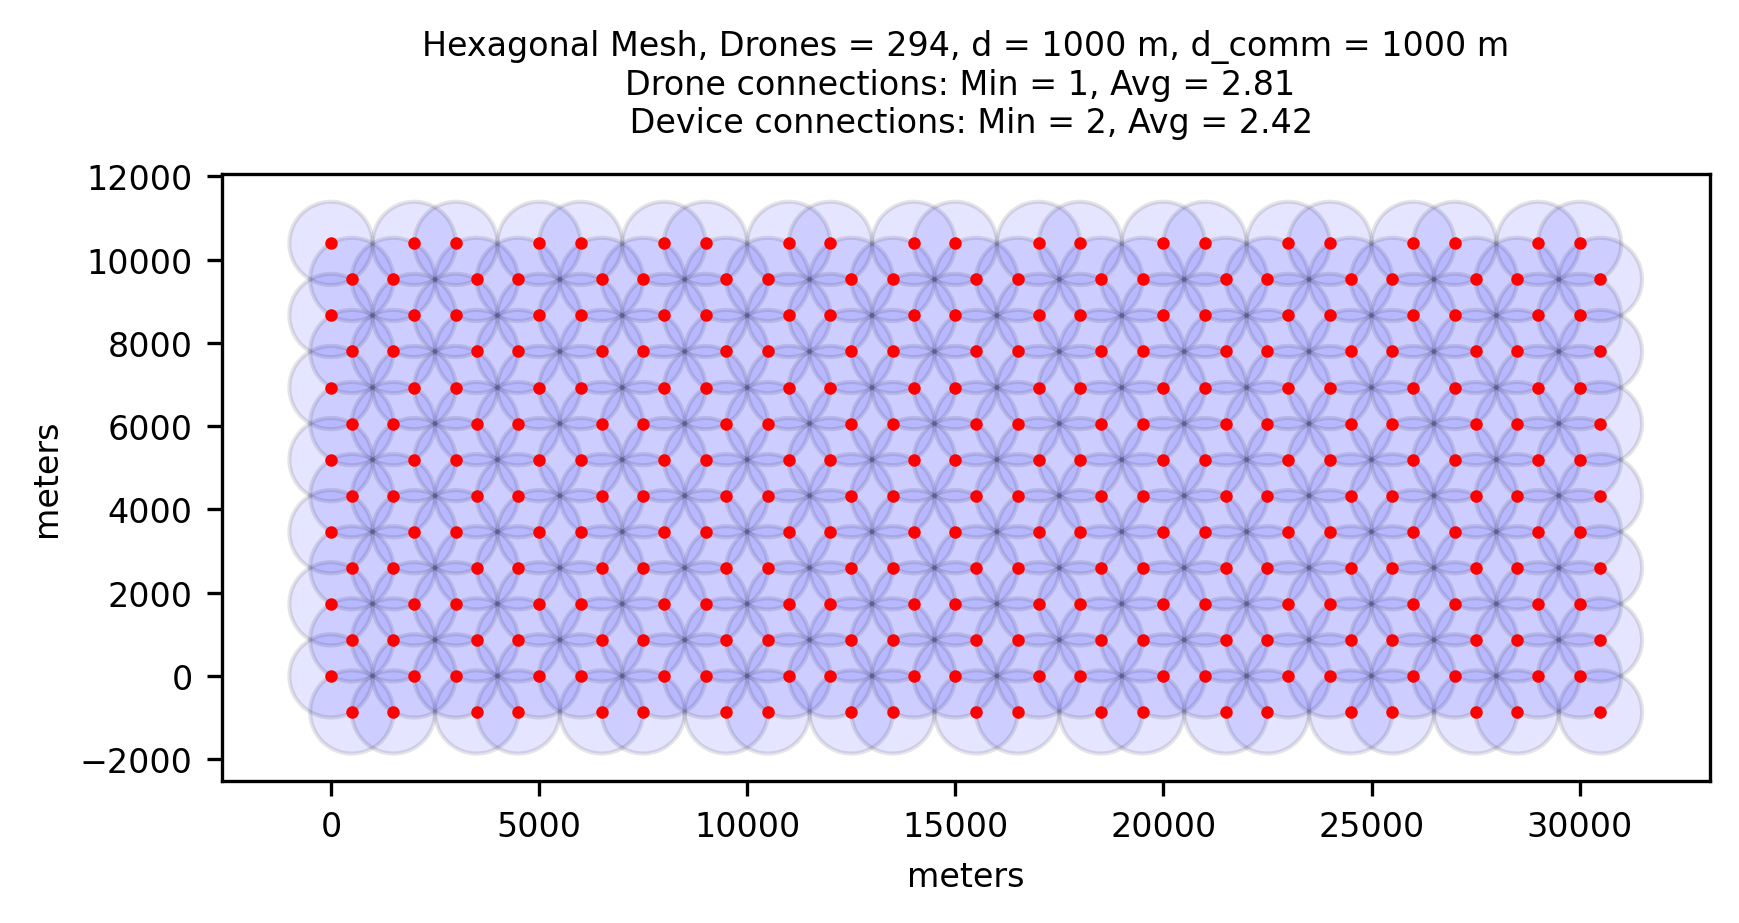
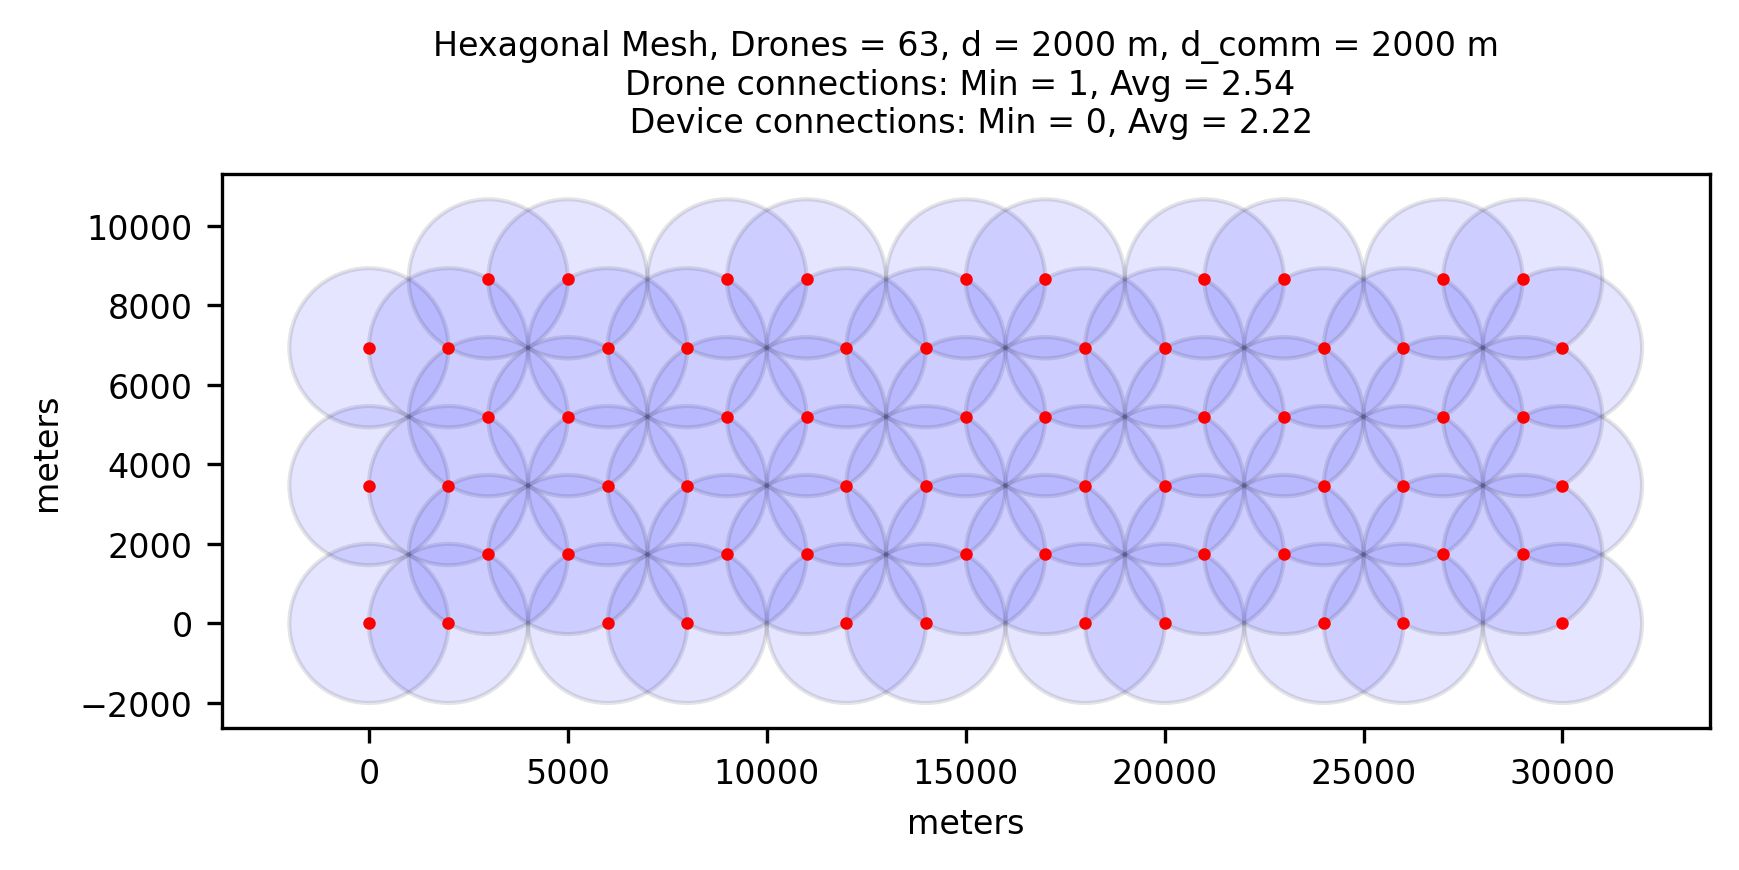
made tolarance function for communication range

diff --git a/mesh_design.py b/mesh_design.py
@@ -4,91 +4,6 @@ import math
 import os
 from tqdm import tqdm
 
-def plot_drone_positions(grid_name: str,
-                         drone_positions: np.ndarray, 
-                         distance: float,
-                         range: float,
-                         dim: tuple[float, float],
-                         sample_resolution: tuple[int, int],
-                         file_path_folder: str):
-    x_dim, y_dim = dim
-    x_sample_res, y_sample_res = sample_resolution
-    font_size = 8
-
-    fig, ax = plt.subplots()
-
-    # Stating number of drones in mesh
-    num_drones = len(drone_positions) 
-
-    # Plot drone positions as dots
-    x_pos = drone_positions[:, 0]
-    y_pos = drone_positions[:, 1]
-    ax.plot(x_pos, y_pos, 'o', color = 'red', markersize=2)
-
-    counts_inside = []
-
-    for i, (x, y) in enumerate(drone_positions):
-        # Compute distances from drone i to all drones
-        distances = (drone_positions[:, 0] - x)**2 + (drone_positions[:, 1] - y)**2
-        
-        # Count how many are within range (exclude itself)
-        count = np.sum(distances <= (range+1)**2) - 1
-        counts_inside.append(count)
-
-        # Draw communcation range as circle
-        circle = plt.Circle((x, y), range, fill=True, facecolor='blue', edgecolor='black', alpha=0.1)
-        ax.add_patch(circle)
-
-    counts_inside = np.array(counts_inside)
-
-    min_drones_inside = np.min(counts_inside)
-    #max_drones_inside = np.max(counts_inside) #commented out since its not used in plot fig
-    avg_drones_inside = np.mean(counts_inside)
-
-    # Device points in drone area
-    x_device_points = np.linspace(0, x_dim, x_sample_res)
-    y_device_points = np.linspace(0, y_dim, y_sample_res)
-
-    valid_connection_counts = []
-
-    for x_new in tqdm(x_device_points, desc=f"Computing distances for {grid_name} mesh"):
-        for y_new in y_device_points:
-            # Compute distances from device i to all drones
-            distances = (drone_positions[:, 0] - x_new)**2 + (drone_positions[:, 1] - y_new)**2
-
-            # Add connections to valid connection count
-            connections = np.sum(distances <= range**2)
-
-            valid_connection_counts.append(connections)
-
-    valid_connection_counts = np.array(valid_connection_counts)
-
-    min_device_connections = np.min(valid_connection_counts)
-    max_device_connections = np.max(valid_connection_counts)
-    avg_device_connections = np.mean(valid_connection_counts)
-
-    title_text = (
-    f"{grid_name} Mesh, Drones = {num_drones}, d = {distance} m, d_comm = {range} m\n"
-    f"Drone connections: Min = {min_drones_inside}, Avg = {avg_drones_inside:.2f} \n "
-    f"Device connections: Min = {min_device_connections}, Avg = {avg_device_connections:.2f}"
-)
-
-    ax.set_title(title_text, fontsize=font_size, pad=10)  # pad adds space above plot
-    
-    ax.set_xlabel("meters", fontsize=font_size)
-    ax.set_ylabel("meters", fontsize=font_size)
-
-    ax.set_aspect('equal', 'box')
-    ax.tick_params(axis='both', labelsize=font_size)
-
-    # save fig to file path
-    os.makedirs(file_path_folder, exist_ok=True)
-    file_path = os.path.join(file_path_folder, f"{grid_name}.png")
-    fig.savefig(file_path, dpi=300, bbox_inches='tight')
-    plt.close(fig)
-
-    
-
 def make_grid_product(x_range, y_range):
     return np.stack(np.meshgrid(x_range, y_range), axis = -1).reshape(-1,2)
 
@@ -325,30 +240,150 @@ def drone_hex_grid(dim: tuple[float, float],
     total_grid = np.vstack(full_grid_positions + part_grid_positions)
     return total_grid
 
+def distance_calc(dist_comm: float, 
+                  tolerances_input: tuple[float, float, float], 
+                  dist_redundancy: float) -> np.ndarray:
+    distance = []
+
+    tol_min, tol_max, tol_step = tolerances_input
+
+    # Convert percentage to meter
+    tol_min = tol_min*dist_comm
+    tol_max = tol_max*dist_comm
+
+    tolerances = np.linspace(tol_min, tol_max, tol_step)
+    
+
+    distance = dist_comm - tolerances - dist_redundancy
+
+    return distance
+
+def plot_drone_positions(grid_name: str,
+                         drone_positions: np.ndarray, 
+                         distance: float,
+                         dist_comm: float,
+                         dim: tuple[float, float],
+                         sample_resolution: tuple[int, int],
+                         file_path_folder: str):
+    x_dim, y_dim = dim
+    x_sample_res, y_sample_res = sample_resolution
+    font_size = 8
+
+    fig, ax = plt.subplots()
+
+    # Stating number of drones in mesh
+    num_drones = len(drone_positions) 
+
+    # Plot drone positions as dots
+    x_pos = drone_positions[:, 0]
+    y_pos = drone_positions[:, 1]
+    ax.plot(x_pos, y_pos, 'o', color = 'red', markersize=2)
+
+    counts_inside = []
+
+    for i, (x, y) in enumerate(drone_positions):
+        # Compute distances from drone i to all drones
+        distances = (drone_positions[:, 0] - x)**2 + (drone_positions[:, 1] - y)**2
+        
+        # Count how many are within dist_comm (exclude itself)
+        count = np.sum(distances <= (dist_comm+1)**2) - 1
+        counts_inside.append(count)
+
+        # Draw communcation dist_comm as circle
+        circle = plt.Circle((x, y), dist_comm, fill=True, facecolor='blue', edgecolor='black', alpha=0.1)
+        ax.add_patch(circle)
+
+    counts_inside = np.array(counts_inside)
+
+    min_drones_inside = np.min(counts_inside)
+    #max_drones_inside = np.max(counts_inside) #commented out since its not used in plot fig
+    avg_drones_inside = np.mean(counts_inside)
+
+    # Device points in drone area
+    x_device_points = np.linspace(0, x_dim, x_sample_res)
+    y_device_points = np.linspace(0, y_dim, y_sample_res)
+
+    valid_connection_counts = []
+
+    for x_new in tqdm(x_device_points, desc=f"Computing distances for {grid_name} mesh"):
+        for y_new in y_device_points:
+            # Compute distances from device i to all drones
+            distances = (drone_positions[:, 0] - x_new)**2 + (drone_positions[:, 1] - y_new)**2
+
+            # Add connections to valid connection count
+            connections = np.sum(distances <= dist_comm**2)
+
+            valid_connection_counts.append(connections)
+
+    valid_connection_counts = np.array(valid_connection_counts)
+
+    min_device_connections = np.min(valid_connection_counts)
+    max_device_connections = np.max(valid_connection_counts)
+    avg_device_connections = np.mean(valid_connection_counts)
+
+    title_text = (
+    f"{grid_name} Mesh, Drones = {num_drones}, d = {distance} m, dist_comm = {dist_comm} m\n"
+    f"Drone connections: Min = {min_drones_inside}, Avg = {avg_drones_inside:.2f} \n "
+    f"Device connections: Min = {min_device_connections}, Avg = {avg_device_connections:.2f}"
+)
+
+    ax.set_title(title_text, fontsize=font_size, pad=10)  # pad adds space above plot
+    
+    ax.set_xlabel("meters", fontsize=font_size)
+    ax.set_ylabel("meters", fontsize=font_size)
+
+    ax.set_aspect('equal', 'box')
+    ax.tick_params(axis='both', labelsize=font_size)
+
+    # save fig to file path
+    os.makedirs(file_path_folder, exist_ok=True)
+    file_path = os.path.join(file_path_folder, f"{grid_name}.png")
+    fig.savefig(file_path, dpi=300, bbox_inches='tight')
+    plt.close(fig)
+
+
 length = 30000
 width = 10000
 scale_factor = 1
 
 test_dim = (length*scale_factor, width*scale_factor)
-test_distance = 1000
-test_range = 1000
+test_dist_comm = 2000
 samples = (600, 200)
 file_folder = "./mesh_design_out"
 
-drone_pos_hex = drone_hex_grid(test_dim, test_distance, extra_edge_drones = True)
+test_tolerances = (0.05, 0.15, 3) #tolerances in percentage (min, max, step)
+test_dist_redundancy = 0
+
+
+test_distance = distance_calc(test_dist_comm, test_tolerances, test_dist_redundancy)
+
+
+for i in range(3):
+    drone_pos_sq = drone_sq_grid(test_dim, test_distance[i])
+    plot_drone_positions(f"Square_{i}", 
+                        drone_pos_sq, 
+                        distance=test_distance[i], 
+                        dist_comm=test_dist_comm, 
+                        dim=test_dim, 
+                        sample_resolution=samples, 
+                        file_path_folder=file_folder)
+
+
+"""
+drone_pos_hex = drone_hex_grid(test_dim, test_distance, extra_edge_drones = False)
 plot_drone_positions("Hexagonal", 
                      drone_pos_hex, 
                      distance=test_distance, 
-                     range=test_range, 
+                     dist_comm=test_dist_comm, 
                      dim=test_dim, 
                      sample_resolution=samples, 
                      file_path_folder=file_folder)
-"""
+
 drone_pos_hex_diamond = drone_hex_diamond_grid(test_dim, test_distance)
 plot_drone_positions("Hexagonal-diamond", 
                      drone_pos_hex_diamond, 
                      distance=test_distance, 
-                     range=test_range, 
+                     dist_comm=test_dist_comm, 
                      dim=test_dim, 
                      sample_resolution=samples, 
                      file_path_folder=file_folder)
@@ -357,27 +392,18 @@ drone_pos_hex_squished = drone_hex_grid_squished(test_dim, test_distance)
 plot_drone_positions("Hexagonal-squished", 
                      drone_pos_hex_squished, 
                      distance=test_distance, 
-                     range=test_range, 
+                     dist_comm=test_dist_comm, 
                      dim=test_dim, 
                      sample_resolution=samples, 
                      file_path_folder=file_folder)
-"""
-                     
+                   
 drone_pos_tri = drone_triangle_grid(test_dim, test_distance)
 plot_drone_positions("Triangle", 
                      drone_pos_tri, 
                      distance=test_distance, 
-                     range=test_range, 
+                     dist_comm=test_dist_comm, 
                      dim=test_dim, 
                      sample_resolution=samples, 
                      file_path_folder=file_folder)
 
-drone_pos_sq = drone_sq_grid(test_dim, test_distance)
-plot_drone_positions("Square", 
-                     drone_pos_sq, 
-                     distance=test_distance, 
-                     range=test_range, 
-                     dim=test_dim, 
-                     sample_resolution=samples, 
-                     file_path_folder=file_folder)
-
+"""
